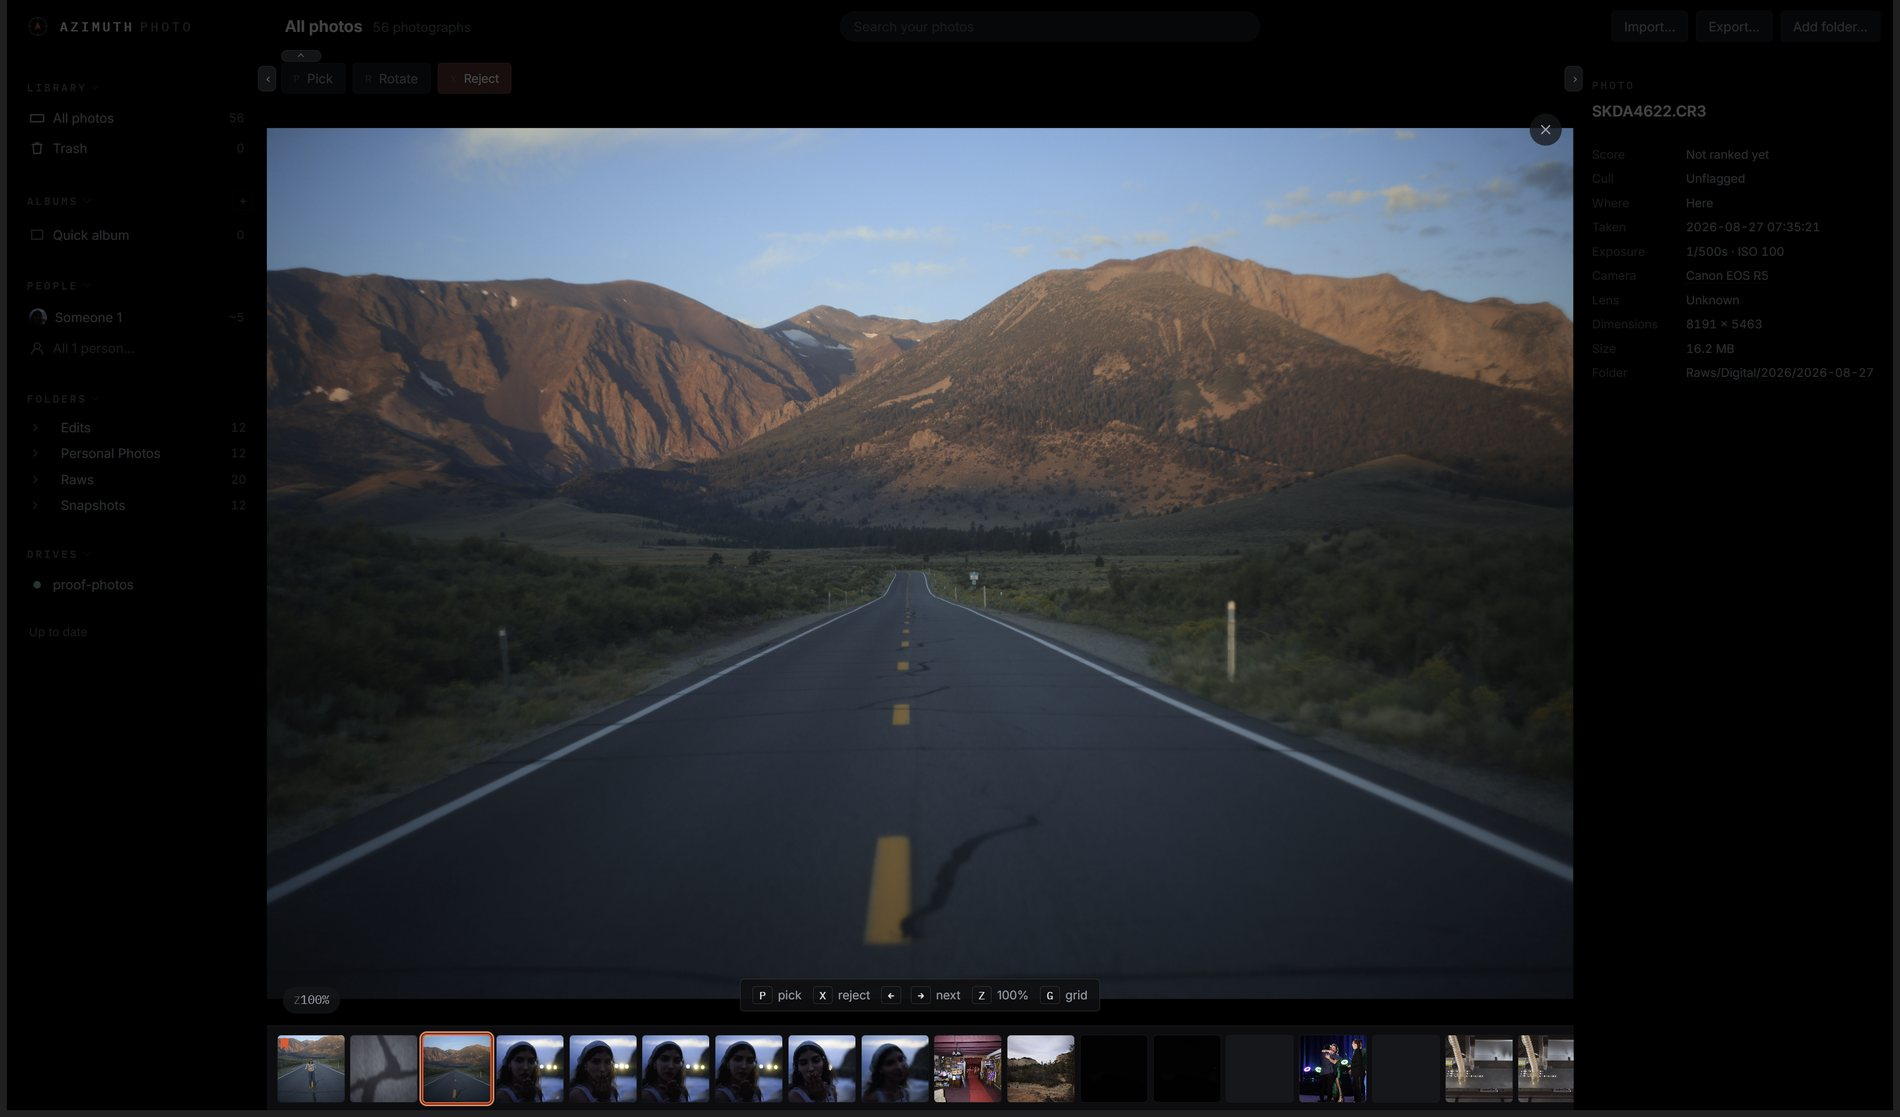
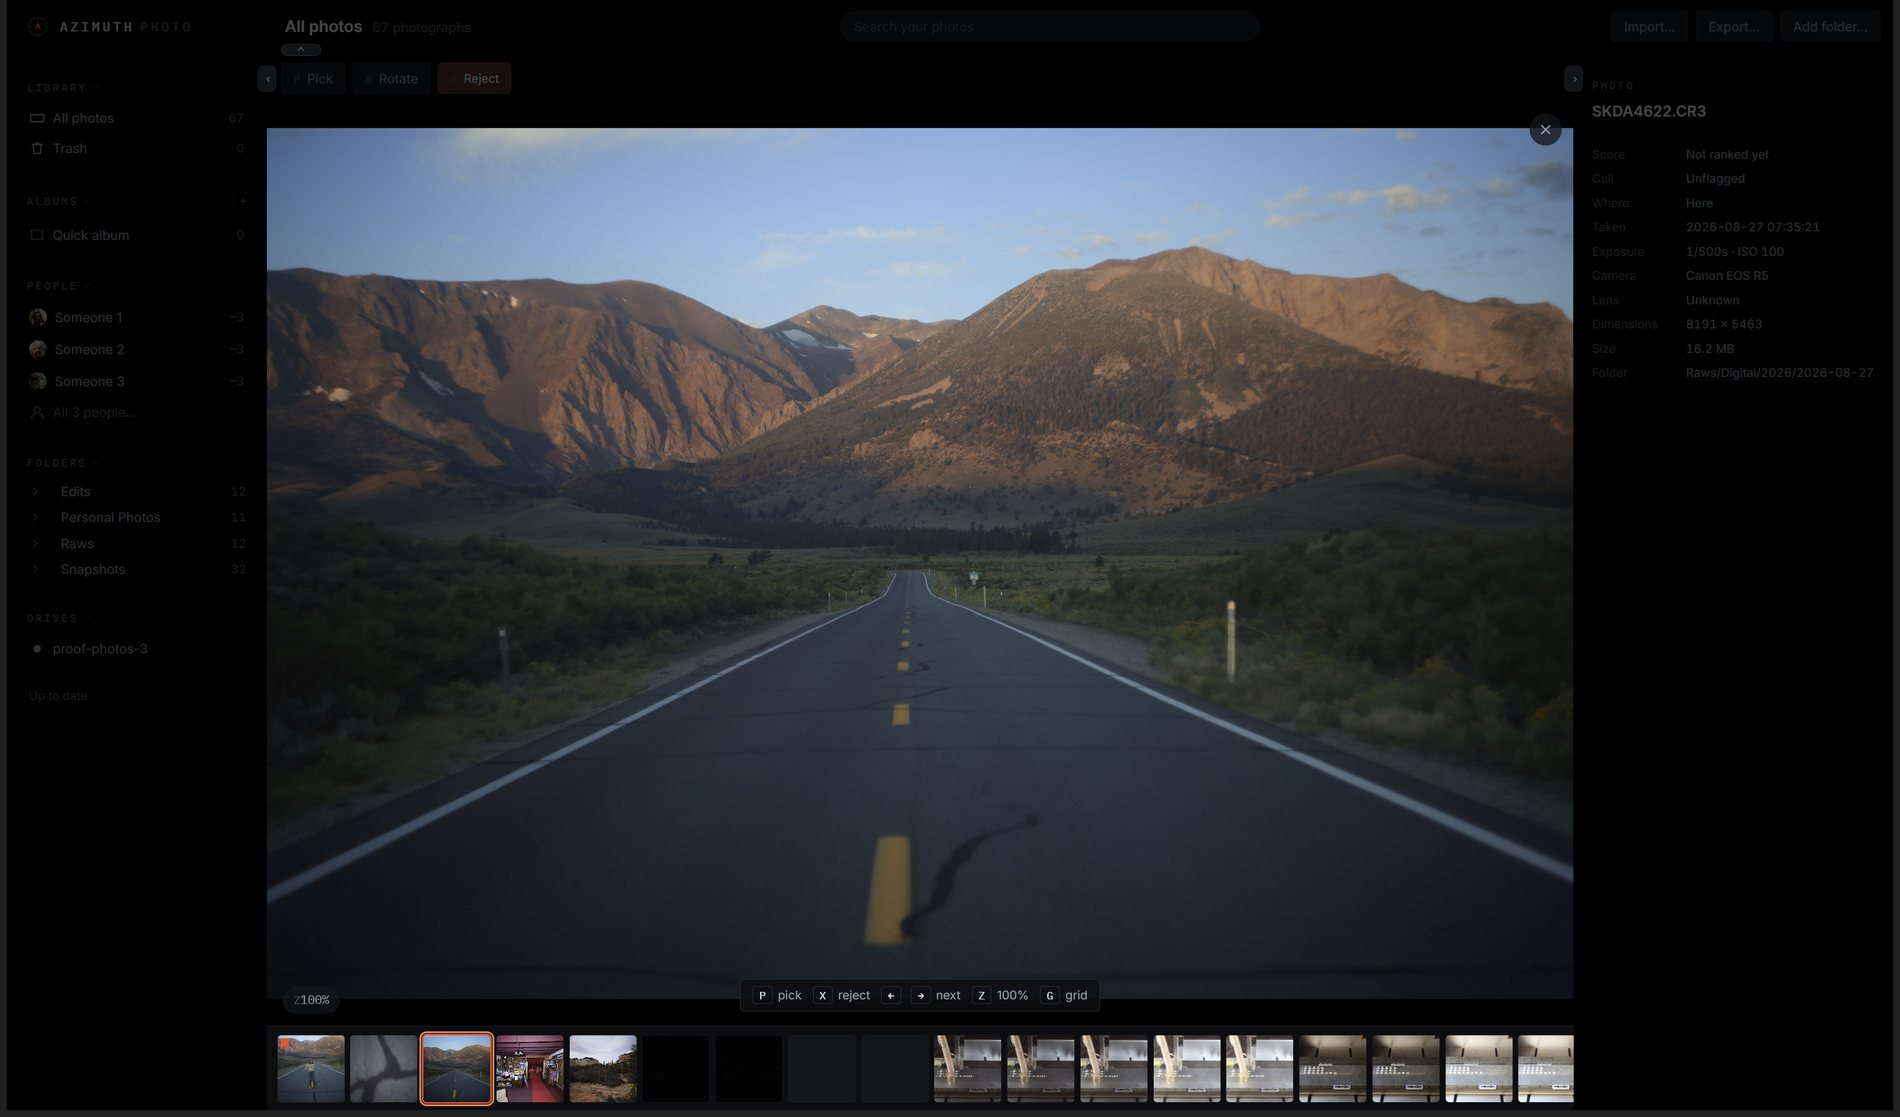
Field Log: the plates reshot on landscapes, with CC0 stock faces
The proof library drops the nine frames the face pass found a face in
and adds ten CC0 Unsplash-origin portraits from Wikimedia Commons as a
stock shoot -- five of them saved as three near-identical frames, because
a person only exists here as a group of faces. The method note says so.
Every plate is reshot on that 67-photograph library at one wait, so the
sidebar agrees from one plate to the next.

Changed region(s): [[0.2484, 0.9132, 0.8384, 1.0], [0.0311, 0.4261, 0.0621, 0.5175]]

diff --git a/log/index.html b/log/index.html
@@ -1216,7 +1216,7 @@ sweep(drive)       check what's on a drive</pre>
     <figure class="plate wide rv">
       <div class="bar"><span class="lights"><i></i><i></i><i></i></span><span class="t">People · the wall</span><span class="hash">a person is a name you give a group of faces</span></div>
       <div class="img"><img src="assets/screens/18-people-wall.jpg" alt="The face wall: groups of face crops laid out to be named, with the cursor on one group" loading="lazy"></div>
-      <figcaption>The wall is a stage to meet everyone. A person's faces are their most typical large ones; a name that joins two groups says so; a split person heals by two introductions.</figcaption>
+      <figcaption>The wall is a stage to meet everyone. A person's faces are their most typical large ones; a name that joins two groups says so; a split person heals by two introductions. The faces here are CC0 stock portraits, on purpose.</figcaption>
     </figure>
 
     <div class="prose rv">
@@ -1468,7 +1468,7 @@ user32.PrintWindow(hwnd, hdc, <span class="tok-num">2</span>)   <span class="tok
     capture_routes(base, shots)                   <span class="tok-com"># Playwright, per era</span></pre>
     </div>
     <div class="prose rv">
-      <p><strong>Act III was shot differently, because the software is different.</strong> There is no server to boot and no browser to point at it. <code>scripts/native_proof.py</code> opens the real desktop app on an isolated home — a catalog built from 62 of the same photographs, on this machine, on 12 September 2026 — with its window placed at <code>x = −2400</code>, off the left edge of every screen, still rendered and captured through <code>PrintWindow</code>. Each shot runs one of the <em>journey</em> probes from the repository first, so what you see is the app after a real sequence of keys, not a posed state. Nothing was retouched, and the owner's own library was never opened.</p>
+      <p><strong>Act III was shot differently, because the software is different.</strong> There is no server to boot and no browser to point at it. <code>scripts/native_proof.py</code> opens the real desktop app on an isolated home — a catalog of 67 photographs on this machine, 12 September 2026: 47 of the owner's own landscapes and street frames, plus ten CC0 portraits from Wikimedia Commons standing in for people — five of them saved as three near-identical frames, because a person only exists here as a <em>group</em> of faces — so that nobody's face appears on this page without having offered it — with its window placed at <code>x = −2400</code>, off the left edge of every screen, still rendered and captured through <code>PrintWindow</code>. Each shot runs one of the <em>journey</em> probes from the repository first, so what you see is the app after a real sequence of keys, not a posed state. Nothing was retouched, and the owner's own library was never opened.</p>
     </div>
     <p class="note rv">The Act I and II rig — <code>harness.py</code>, per-era config, three pinned Python environments, and the boot-and-hold server used for the interactive Develop/Film shots — lives beside this page. It is, fittingly, its own tiny piece of software written to tell the story of another one.</p>
   </section>
